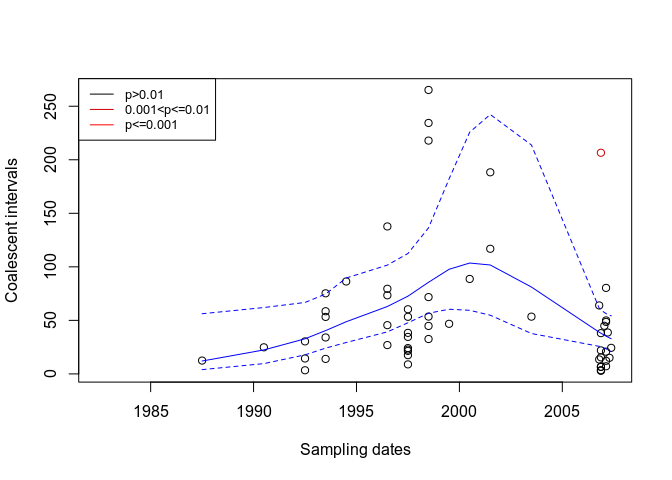
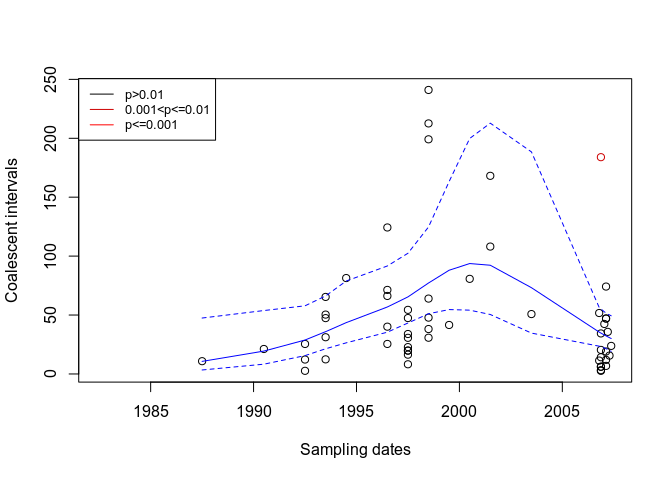
Slightly improved version of README

diff --git a/README.md b/README.md
@@ -46,13 +46,13 @@ library(DetectImports)
 
 ### Simulated tree
 
-First we generate a random dated tree with one import, detect imports,
-and plot the results:
+First we generate a random dated tree with imports, detect the latter
+with `DetectImports`, and plot the results:
 
 ``` r
 library(ape)
 library(DetectImports)
-set.seed(1)
+set.seed(100)
 sim_dated_tree=simImports(localPopStart=2020,importDates=c(2020.25),samplingStartDate=2020,samplingEndDate=2021,samplingNumber=500,globalNeg=0.01)
 sim_results=detectImports(sim_dated_tree)
 plot(sim_results)
@@ -65,7 +65,7 @@ parameter which by default is set to `"scatter"`. So the last command
 will produce a scatterplot of the number of coalescent intervals for
 each sequence as a function of time, with the sequences corresponding to
 imports coloured in red. By changing the `type` to `"tree"`, one will
-get a plot of the original tree and, once again, imported sequences
+get a plot of the original tree with, once again, imported sequences
 coloured in red:
 
 ``` r
@@ -109,12 +109,12 @@ Given tree and dates, we can then generate a dated tree with
 
 ``` r
 staph_dated<-bactdate(staph$tree,staph$dates)
-staph_results=detectImports(staph_dated$tree)
 ```
 
-and then plot the results as before:
+and then run `DetectImports` on it and plot results as before:
 
 ``` r
+staph_results=detectImports(staph_dated$tree)
 plot(staph_results)
 ```
 
